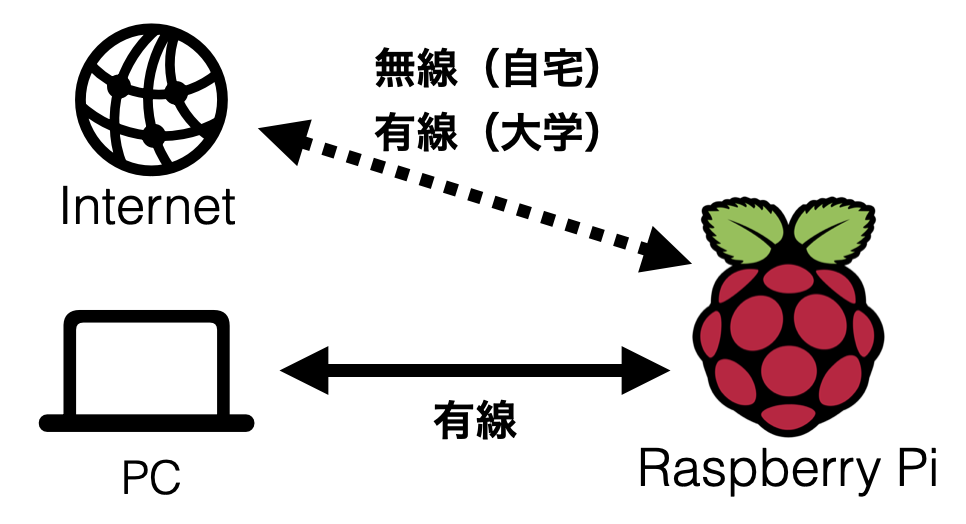
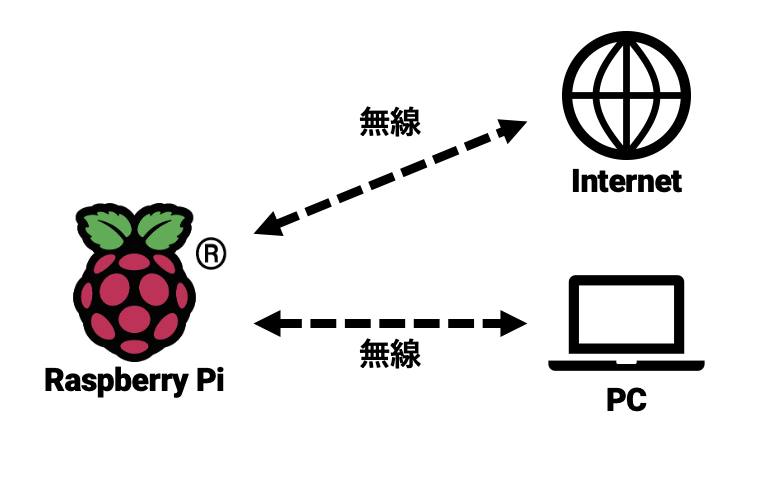
概要不要項目の削除と図追加

diff --git a/books/content/part1/part1_1/raspberry_setting.md b/books/content/part1/part1_1/raspberry_setting.md
@@ -1,14 +1,12 @@
 # RaspberryPiのセッティング
 
-実験はラズパイとPCの２つの機材を用いて実施します
-実験時のPCとラズパイのファイルのやり取りをやります
-本講義ではRaspberryPiとPCの２つの機材を用いて
-図のような形式で実験を行います
+実験はラズパイとPCの２つの機材を用いて図のような形式で実験を行います。
 
-
-
-
-実験中は基本的にこの形式で接続を行ってもらいます．
+```{image} ../../../images/part1/part1_1/configuration.png
+:alt: RaspberryPiの接続
+:width: 400px
+:align: center
+```
 
 ## 前準備
 
@@ -47,11 +45,11 @@ $passwd
 
 本講義では作業簡略化のため**実験用の仮ネットワークを用意しておりますので担当教員からのパスワードなどの情報開示をお待ちください．**
 
-右上に表示されているアイコンから無線LAN設定を行うことができます．各自接続するWifiの設定を行ってください．
+右上に表示されているアイコンから無線LAN設定を行うことができます．情報開示次第各自接続するWifiの設定を行ってください．
 
 ![wifi.png](../../../images/part1/part1_1/wifi.png)
 
-RaspberryPiは配布時点の環境が最新版とは限りません．実験では PC と接続している有線/無線 LAN ネットワークを利用しますので，脆弱性対策の観点から実験実施時はこまめにアップデートを行うようにしてください．
+RaspberryPiは配布時点の環境が最新版とは限りません．実験ではPCと接続している有線/無線LANネットワークを利用しますので，脆弱性対策の観点から実験実施時はこまめにアップデートを行うようにしてください．
 
 ```shell
 $sudo apt update

diff --git a/books/content/part1/part1_1/overview.md b/books/content/part1/part1_1/overview.md
@@ -4,8 +4,7 @@
 
 ```{admonition} 本日の進捗確認チェックリスト
 - 13:30: RaspberryPiを起動できましたか？
-- 14:30: RaspberryPiにPCからVNC接続できましたか？
-- 15:00: RaspberryPiにPCからファイルを転送できましたか？
+- 14:30: RaspberryPiにPCからファイルを転送できましたか？
 - 15:30: RaspberryPiにVMからSSH接続できましたか？
 - 16:00: VM上のLinuxにPCからファイルを転送できましたか？
   - 問題なく設定できた場合はそのまま次回の内容に進んでください．
